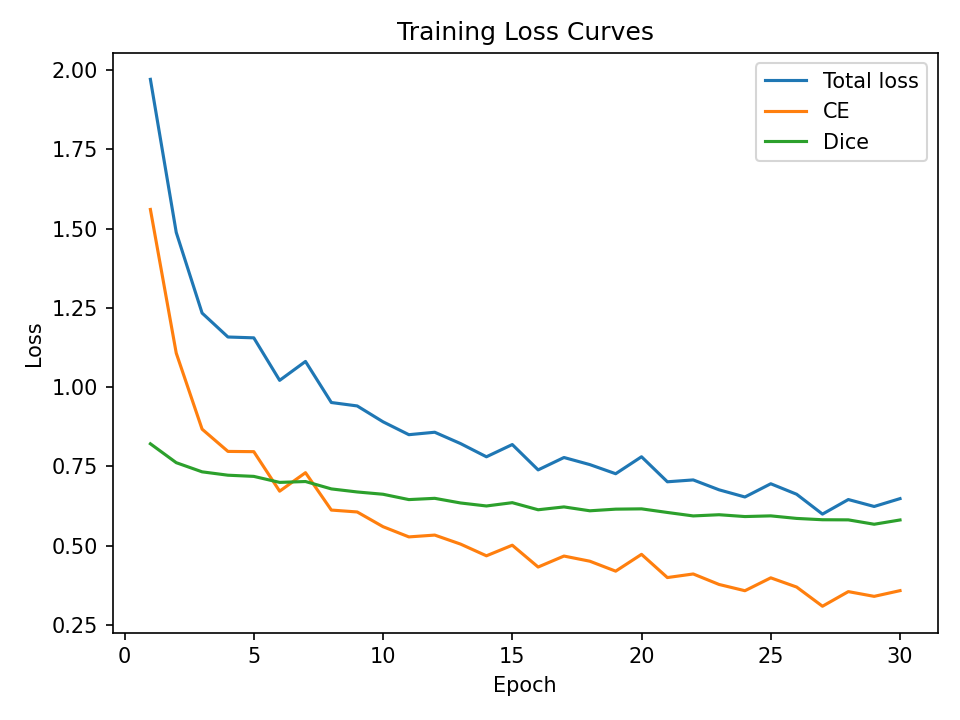
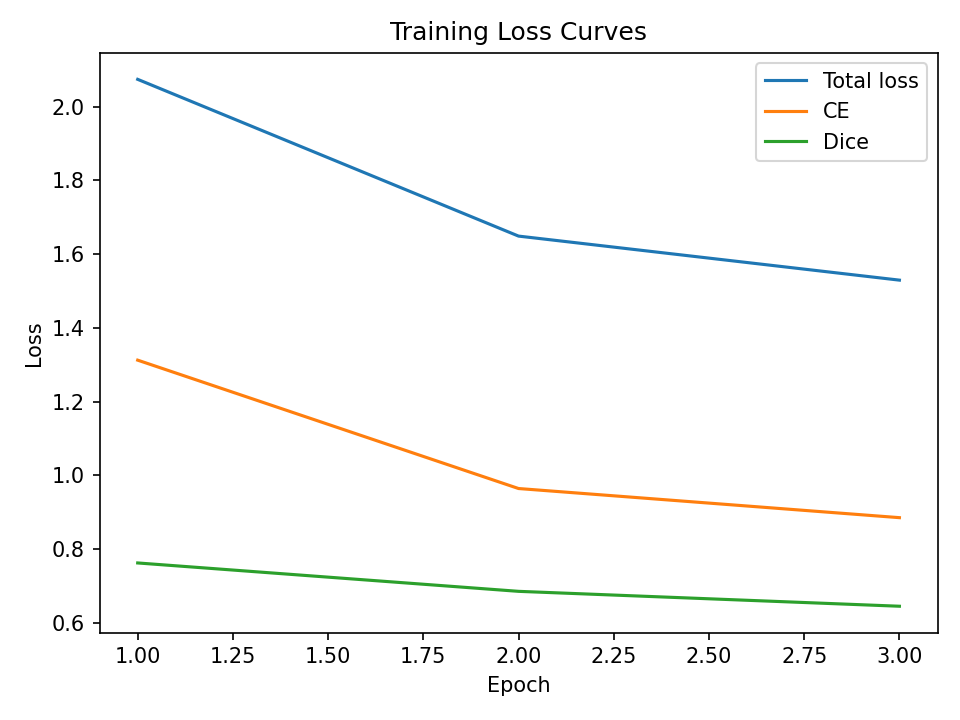
improved 3

diff --git a/recognition/prostate3d_Luyi_Ying_48360591/train.py b/recognition/prostate3d_Luyi_Ying_48360591/train.py
@@ -31,6 +31,14 @@ python recognition\prostate3d_Luyi_Ying_48360591\train.py `
   --base 8 --patch 64 64 64 --accum 1 --amp `
   --fullval_every 5 --val_patch 64 64 64 --val_overlap 16
 
+python recognition\prostate3d_Luyi_Ying_48360591\train.py `
+  --data_root "D:\document\UQ\4COMP3710\A3\data" `
+  --epochs 3 --batch_size 1 `
+  --base 16 `
+  --patch 64 64 64 `
+  --accum 1 `
+  --val_overlap 32 `
+  --amp
 """
 import argparse
 from pathlib import Path
@@ -104,9 +112,11 @@ def full_volume_validation(model, dl_val, device, num_classes=6, patch=(64,64,64
     return dices_all.mean(0)
 
 
-def dice_loss_multiclass(logits, target, eps=1e-5):
+def dice_loss_multiclass(logits, target, eps=1e-5, class_weights=None, drop_bg=True):
     """
-    logits: (B,C,Z,Y,X), target: (B,Z,Y,X) in [0..C-1]
+    logits: (B,C,Z,Y,X), target: (B,Z,Y,X)
+    class_weights: 长度=C 的权重张量（放在 device 上），用于各类 Dice 加权
+    drop_bg: True 时丢弃背景类的 Dice
     """
     C = logits.shape[1]
     probs = F.softmax(logits, dim=1)
@@ -114,16 +124,28 @@ def dice_loss_multiclass(logits, target, eps=1e-5):
     dims = (0,2,3,4)
     inter = (probs * onehot).sum(dims)
     denom = (probs*probs).sum(dims) + (onehot*onehot).sum(dims)
-    dice = (2*inter + eps) / (denom + eps)
-    return 1.0 - dice.mean()
+    dice_c = (2*inter + eps) / (denom + eps)  # (C,)
 
-def random_crop_3d_balanced(img, lab, size, focus=(2,3,4), pos_rate=0.8):
+    if drop_bg and C > 1:
+        dice_c = dice_c[1:]
+        if class_weights is not None:
+            class_weights = class_weights[1:]
+
+    if class_weights is not None:
+        loss = 1.0 - (dice_c * class_weights / (class_weights.sum() + 1e-8)).sum()
+    else:
+        loss = 1.0 - dice_c.mean()
+    return loss
+
+
+def random_crop_3d_balanced(img, lab, size, focus=(2,3,4,5), pos_rate=0.9):
     """
-    以 pos_rate 抽取“包含 focus 类之一”的正样本 patch；否则随机 patch
-    img: (B,1,Z,Y,X)  lab: (B,Z,Y,X)
+    正样本：先在 focus 里随机选一个类，再在该类的体素中随机取一个中心点裁剪；
+    否则随机裁剪。这样每个小器官被看到的机会是均等的。
     """
     B,C,Z,Y,X = img.shape
     pz,py,px = size
+
     def _crop_at(zc,yc,xc):
         z0 = max(0, min(zc - pz//2, Z - pz))
         y0 = max(0, min(yc - py//2, Y - py))
@@ -133,15 +155,14 @@ def random_crop_3d_balanced(img, lab, size, focus=(2,3,4), pos_rate=0.8):
 
     use_pos = (torch.rand(()) < pos_rate)
     if use_pos:
-        mask = torch.zeros_like(lab, dtype=torch.bool)
-        for c in focus:
-            mask |= (lab == c)
+        c_sel = int(focus[torch.randint(len(focus), (1,)).item()])
+        mask = (lab == c_sel)
         if mask.any():
             idx = mask.nonzero(as_tuple=False)
             k = torch.randint(0, idx.shape[0], (1,)).item()
             zc, yc, xc = idx[k, -3:].tolist()
-            img_c, lab_c = _crop_at(zc,yc,xc)
-            return img_c, lab_c
+            return _crop_at(zc,yc,xc)
+
     # fallback: 随机裁剪
     z0 = 0 if Z<=pz else torch.randint(0, Z-pz+1, (1,), device=img.device).item()
     y0 = 0 if Y<=py else torch.randint(0, Y-py+1, (1,), device=img.device).item()
@@ -192,7 +213,11 @@ def main(args):
     model = UNet3D(in_ch=1, num_classes=NUM_CLASSES, base=args.base).to(device)
 
     # 损失 + 优化器（baseline：CE，可日后换 DiceLoss/组合以提升）
-    criterion = nn.CrossEntropyLoss()
+    #criterion = nn.CrossEntropyLoss()
+    # class weights (0=bg, 1=body, 2=bone, 3=bladder, 4=rectum, 5=prostate)
+    ce_weights = torch.tensor([0.05, 1.0, 1.2, 2.5, 3.0, 4.0], dtype=torch.float32, device=device)
+    criterion = nn.CrossEntropyLoss(weight=ce_weights)
+
     optimizer = optim.AdamW(model.parameters(), lr=args.lr)
 
     scaler = torch.cuda.amp.GradScaler(enabled=args.amp)
@@ -216,6 +241,15 @@ def main(args):
 
     patch = tuple(args.patch)
     accum = max(1, args.accum)
+    # ---- DEBUG: 看看标签里到底有哪些类 ----
+    for name, ds in [("TRAIN", ds_train), ("VAL", ds_val)]:
+        cls_counts = np.zeros(NUM_CLASSES, dtype=np.int64)
+        for i in range(min(3, len(ds))):   # 只看前3个样本
+            lab_i = ds[i]["label"].numpy()
+            u, c = np.unique(lab_i, return_counts=True)
+            for ui, ci in zip(u, c):
+                if 0 <= ui < NUM_CLASSES: cls_counts[ui] += ci
+        print(f"[DEBUG] {name} class voxels:", dict((CLASS_NAMES[i], int(v)) for i,v in enumerate(cls_counts)))
 
     for epoch in range(1, args.epochs + 1):
         # -------- 训练（patch-based）--------
@@ -250,14 +284,16 @@ def main(args):
 
             with torch.cuda.amp.autocast(enabled=args.amp):
                 logits = model(img_c)
-                ce = F.cross_entropy(logits, lab_c)
-                dl = dice_loss_multiclass(logits, lab_c)
-                loss = ce + 0.5*dl
+                #ce = F.cross_entropy(logits, lab_c)
+                ce = criterion(logits, lab_c)  # 用上面的加权 CE
+                dice_w = torch.tensor([0.0, 1.0, 1.2, 2.0, 2.5, 3.5], dtype=torch.float32, device=device)  # 背景权重0
+                dl = dice_loss_multiclass(logits, lab_c, class_weights=dice_w, drop_bg=True)
+                loss = ce + 1.0*dl
             loss = loss / accum
             # 记录原始 ce/dice/total（注意：这里记录的是未除以accum前的数）
             sum_ce  += ce.item()
             sum_dl  += dl.item()
-            sum_total += (ce.item() + 0.5*dl.item())
+            sum_total += (ce.item() + 1.0*dl.item())
             n_steps += 1
 
 

diff --git a/recognition/prostate3d_Luyi_Ying_48360591/README.md b/recognition/prostate3d_Luyi_Ying_48360591/README.md
@@ -92,6 +92,11 @@ In each epoch, only one random patch is taken from each sample. In the next epoc
   * change random sampling to balanced sampling to avoid sampling bias
   * set mdice_full_org(get rid of background) as the best indicator
 
+**improved 3**
+  * Add category weights to CE
+  * Dice is excluded from the background, and small organs are given greater weight.
+  * Corrected "Union sampling" → "Class-based equalization sampling"
+
 **visualize**:
 * training_losses.png
   * Total loss = CE + 0.5*DiceLoss
